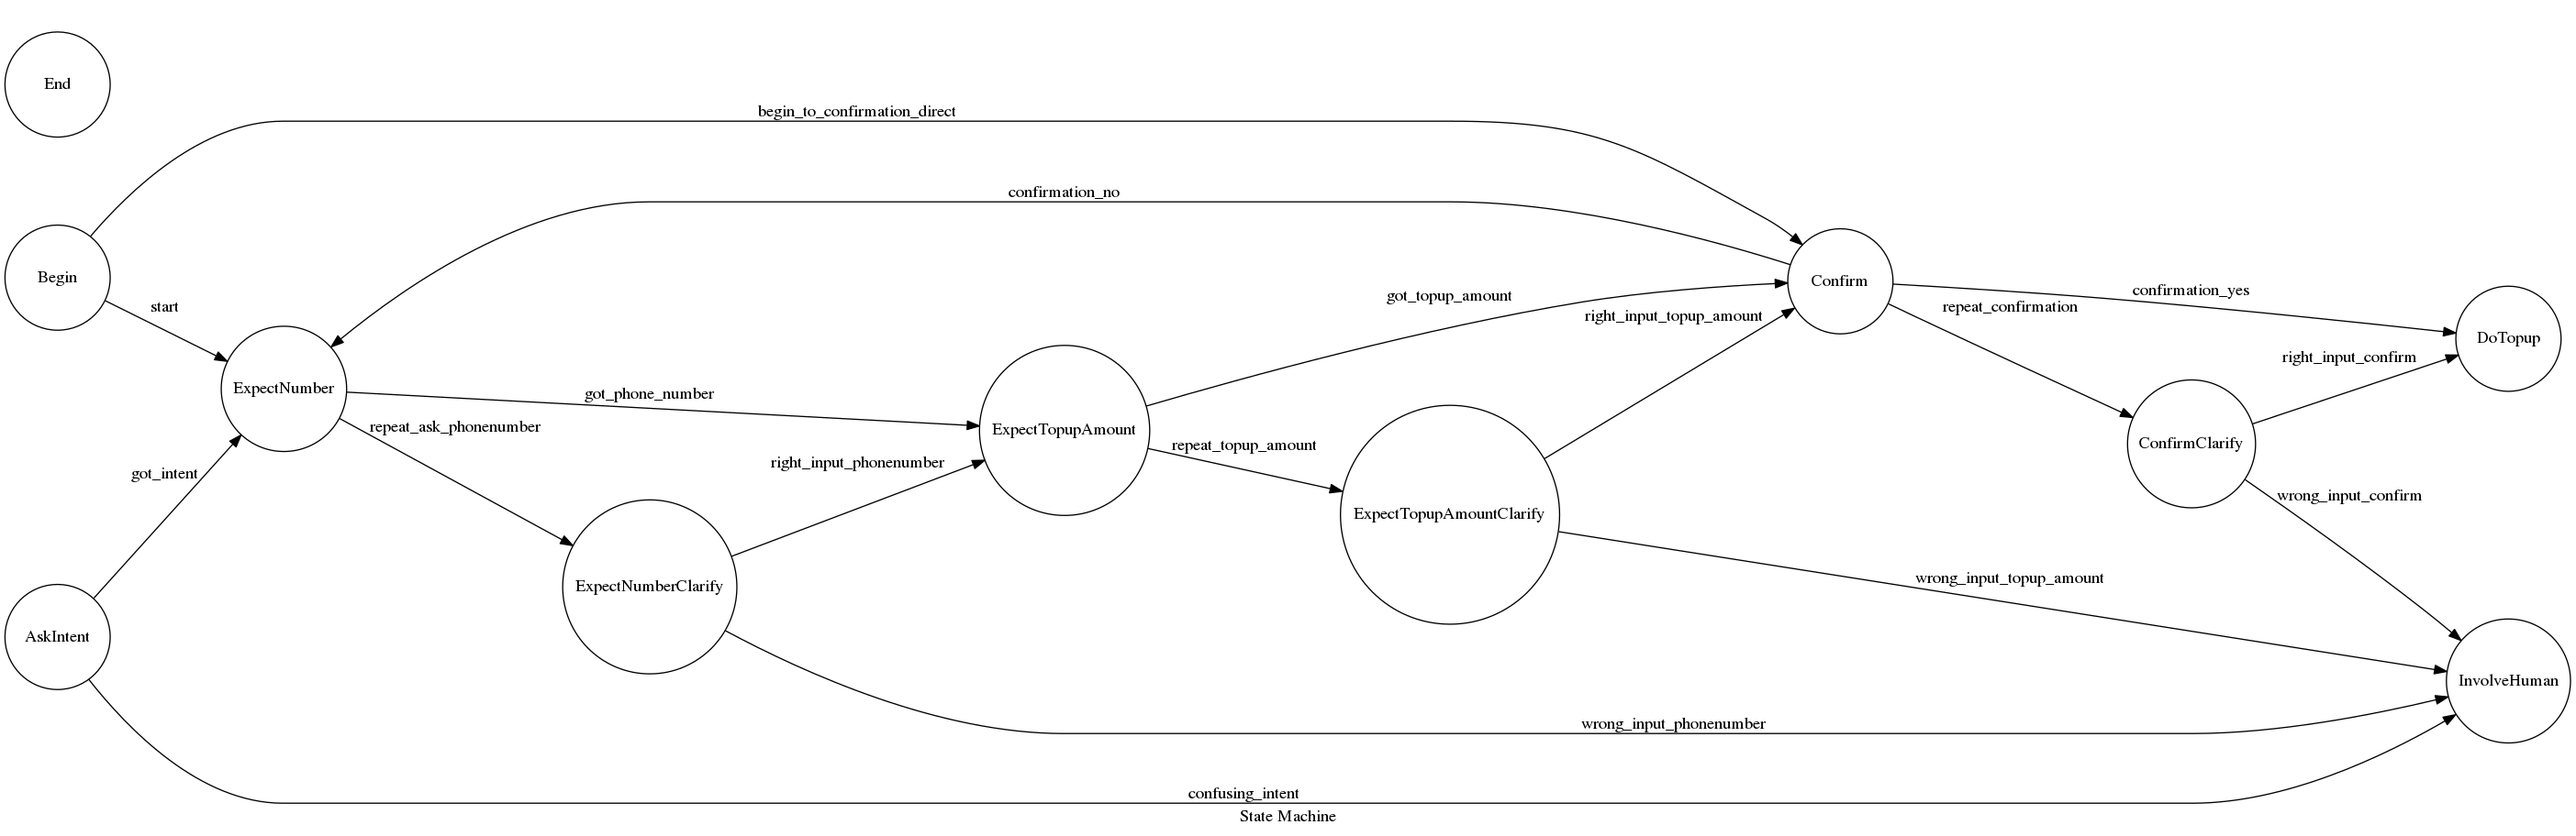
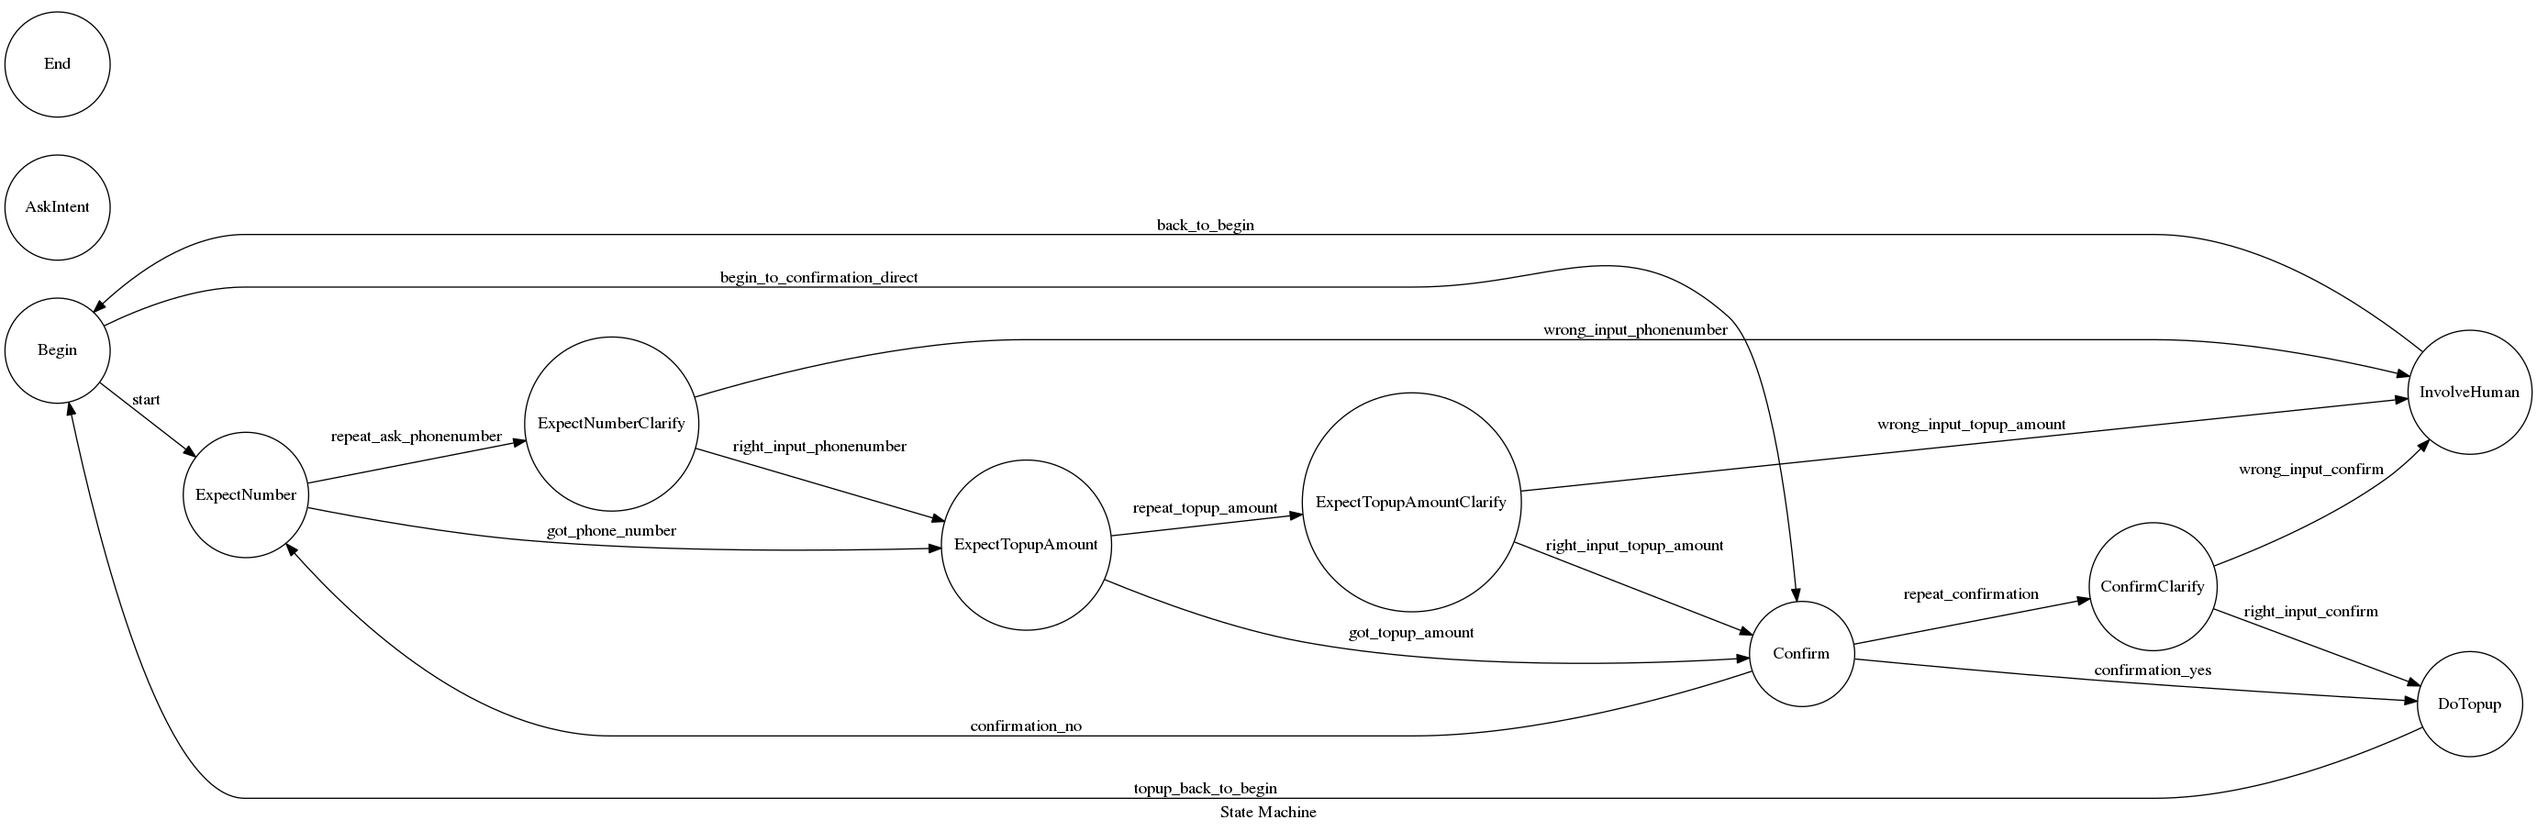
Working paytm telegram bot

diff --git a/experiments/transitions/PaytmBrain.py b/experiments/transitions/PaytmBrain.py
@@ -1,0 +1,77 @@
+#!/usr/bin/python
+
+import logging, sys
+from transitions.extensions import MachineGraphSupport as Machine
+from transitions import logger
+from PaytmModel import Model
+logger.setLevel(logging.DEBUG)
+
+class DecisionMaker():
+    def __init__(self, model, machine):
+        self.model = model
+        self.transitions = machine.get_transitions()
+
+    def try_all_transitions(self, text, reply):
+        currentState = self.model.state
+        for arr in self.transitions:
+            if arr[1] == currentState:
+                try:
+                    getattr(self.model, arr[0])(text,reply)
+                except Exception,e:
+                    print e
+
+
+    def decide(self, text, reply):
+        self.try_all_transitions(text, reply)
+
+class PaytmBrain():
+    def __init__(self):
+        states=['Begin', 'AskIntent', 'ExpectNumber', 'ExpectNumberClarify', 'ExpectTopupAmount', 'ExpectTopupAmountClarify', 'Confirm', 'ConfirmClarify', 'DoTopup', 'InvolveHuman', 'End']
+
+        model = Model()
+        machine = Machine(model, states, initial='Begin', ignore_invalid_triggers=True, auto_transitions=False)
+        machine.on_enter_ExpectNumber('ask_number')
+        machine.on_enter_ExpectNumberClarify('ask_number_clarify')
+        machine.on_enter_AskIntent('ask_intent')
+        machine.on_enter_ExpectTopupAmount('ask_amount')
+        machine.on_enter_ExpectTopupAmountClarify('ask_amount_clarify')
+        machine.on_enter_Confirm('ask_confirmation')
+        machine.on_enter_ConfirmClarify('ask_confirmation_clarify')
+        machine.on_enter_InvolveHuman('involve_human')
+        machine.on_enter_DoTopup('do_topup')
+        
+        machine.add_transition('begin_to_confirmation_direct', 'Begin', 'Confirm', conditions=['has_phone_number','has_topup_amount'])
+        machine.add_transition('start', 'Begin', 'ExpectNumber', unless=["has_phone_number"])
+        #machine.add_transition('got_intent', 'AskIntent','ExpectNumber', conditions=['has_intent'])
+        #machine.add_transition('confusing_intent', 'AskIntent', 'InvolveHuman', unless=['has_intent'])
+        machine.add_transition('got_phone_number', 'ExpectNumber', 'ExpectTopupAmount', conditions=['has_phone_number'])
+        machine.add_transition('repeat_ask_phonenumber', 'ExpectNumber','ExpectNumberClarify',unless=['has_phone_number'])
+        machine.add_transition('right_input_phonenumber', 'ExpectNumberClarify', 'ExpectTopupAmount', conditions=['has_phone_number'])
+        machine.add_transition('wrong_input_phonenumber', 'ExpectNumberClarify', 'InvolveHuman', unless=['has_phone_number'])
+        machine.add_transition('got_topup_amount', 'ExpectTopupAmount', 'Confirm', conditions=['has_topup_amount'])
+        machine.add_transition('repeat_topup_amount', 'ExpectTopupAmount', 'ExpectTopupAmountClarify', unless=['has_topup_amount'])
+        machine.add_transition('right_input_topup_amount', 'ExpectTopupAmountClarify', 'Confirm', conditions=['has_topup_amount'])
+        machine.add_transition('wrong_input_topup_amount', 'ExpectTopupAmountClarify', 'InvolveHuman', unless=['has_topup_amount'])
+        
+        machine.add_transition('confirmation_yes', 'Confirm', 'DoTopup', conditions=['yes'])
+        machine.add_transition('confirmation_no', 'Confirm', 'ExpectNumber', conditions=['no'])
+        machine.add_transition('repeat_confirmation', 'Confirm', 'ConfirmClarify', unless=['yesorno'])
+        machine.add_transition('right_input_confirm', 'ConfirmClarify', 'DoTopup', conditions=['yesorno'])
+        machine.add_transition('wrong_input_confirm', 'ConfirmClarify', 'InvolveHuman', unless=['yesorno'])
+        machine.add_transition('back_to_begin', 'InvolveHuman', 'Begin')
+        machine.add_transition('topup_back_to_begin', 'DoTopup', 'Begin')
+        machine.draw_graph_now()
+        machine.graph.draw('my_state_diagram.png', prog='dot')
+        self.d = DecisionMaker(model,machine)
+      
+    def process(self, text, reply):
+        return self.d.decide(text, reply)   
+
+
+if __name__ == '__main__':
+    p = PaytmBrain()
+    while True:
+        text = raw_input(': ')
+        reply = []
+        p.process(text, reply)
+        print reply[0]

diff --git a/experiments/transitions/PaytmModel.py b/experiments/transitions/PaytmModel.py
@@ -1,0 +1,67 @@
+class Model(object):
+    def __init__(self):
+        self._command = None #topup, bus ticket, movie
+        self._topupnumber = None #mobile number, dth id etc
+        self._userid = None
+        self._amount = None
+        self._topuptype = None #mobile,dth,metro etc
+        self._topupsubtype = None #prepaid/postpaid
+    def ask_number(self, text, reply):
+        reply.append("Hi, what is your number?")
+
+    def ask_number_clarify(self,text, reply):
+        reply.append("You need to enter a 10 digit valid Indian phone number.")
+
+    def ask_amount(self,text, reply):
+        reply.append("What amount of topup do you want?")
+
+    def ask_amount_clarify(self,text, reply):
+        reply.append("You need to enter a valid topup amount.")
+
+    def ask_confirmation(self,text, reply):
+        reply.append("We are about to do a %d topup of %d, please confirm (yes/no)."%(self._amount, self._number))
+
+    def ask_confirmation_clarify(self,text, reply):
+        reply.append("Please type yes or no.")
+
+    def involve_human(self,text, reply):
+        reply.append("We failed to understand your request. Involving a human agent, please wait ....")
+        self.back_to_begin()
+
+    def do_topup(self,text, reply):
+        reply.append("Topup is done")
+        self.topup_back_to_begin()
+
+    def yes(self, text, reply):
+        if 'yes' in text.lower():
+            print text
+            return True
+        else:
+            return False
+
+    def no(self, text, reply):
+        if 'no' in text.lower():
+            return True
+        else:
+            return False
+
+    def yesorno(self, text, reply):
+        if 'no' in text or 'yes' in text:
+            return True
+        else:
+            return False
+
+    def has_phone_number(self, text, reply):
+        for word in text.split(' '):
+            if len(word) == 10 and word.isdigit():
+                self._number = int(word)
+                return True
+        else:
+            return False
+    def has_topup_amount(self, text, reply):
+        for word in text.split(' '):
+            if word.isdigit():
+                if float(word) > 0 and float(word) < 1000:
+                    self._amount = int(word)
+                    return True
+        return False

diff --git a/experiments/transitions/paytmbot.py b/experiments/transitions/paytmbot.py
@@ -1,0 +1,32 @@
+#!/usr/bin/python
+
+import logging
+logging.basicConfig(level=logging.DEBUG,
+                    format='%(asctime)s - %(name)s - %(levelname)s - %(message)s')
+
+import telegram
+from telegram.ext import Updater
+from PaytmBrain import PaytmBrain
+
+p = PaytmBrain()
+bot = telegram.Bot(token='219102194:AAGqRz7GPtCCZJRQtVaJkdVItzor5xNR9Zc')
+updater = Updater(token='219102194:AAGqRz7GPtCCZJRQtVaJkdVItzor5xNR9Zc')
+dispatcher = updater.dispatcher
+
+
+def respond(bot, update):
+  reply = []
+  p.process(update.message.text, reply)
+  bot.sendMessage(chat_id=update.message.chat_id, text=reply[0])
+
+def unknown(bot, update):
+  bot.sendMessage(chat_id=update.message.chat_id, text="Sorry, I didn't understand that command.")
+
+
+
+print bot.getMe()
+
+dispatcher.addTelegramMessageHandler(respond)
+dispatcher.addUnknownTelegramCommandHandler(unknown)
+
+updater.start_polling()
